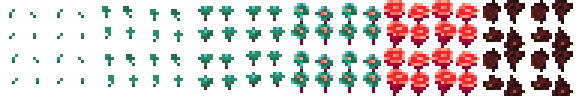
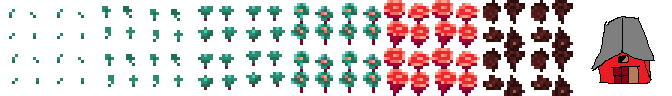
Show the harvester

diff --git a/src/scenes/TileScreen.ts b/src/scenes/TileScreen.ts
@@ -24,7 +24,6 @@ export class TileScreen extends Phaser.Scene {
         if (!first_row) {
             throw new Error("Must have failed to parse map!");
         }
-
         this.map = this.make.tilemap({
             key: 'map',
             width: first_row.length,
@@ -32,9 +31,6 @@ export class TileScreen extends Phaser.Scene {
             tileWidth: 32,
             tileHeight: 32,
         });
-
-        const harvester = this.add.image(WINDOW_CENTER.x, WINDOW_CENTER.y, 'harvester');
-        this.harvester = harvester;
 
         const ground_tileset = this.map.addTilesetImage('ground', undefined, 96, 96);
         const plant_tileset = this.map.addTilesetImage('plants', undefined, 96, 96);
@@ -45,11 +41,14 @@ export class TileScreen extends Phaser.Scene {
         const plants = this.map.createBlankLayer('plants', plant_tileset);
         plants.fill(0, 0, 0, this.map.width, this.map.height);
 
+        this.updateTiles();
+
+        const harvester = this.add.image(WINDOW_CENTER.x, WINDOW_CENTER.y, 'harvester', 0);
+        this.harvester = harvester;
         this.cameras.main.setBounds(0, 0, TILE_SIZE * this.map.width, TILE_SIZE * this.map.height);
-        // Set Deadzone for harvester?
+        // TODO: Set Deadzone for harvester?
         this.cameras.main.startFollow(this.harvester);
 
-        this.updateTiles();
         this.input.keyboard.on('keydown-RIGHT', () => {
             harvester.x += 3;
         });

diff --git a/src/map/builder.ts b/src/map/builder.ts
@@ -7,7 +7,7 @@ type TileDefinitions = Record<string, () => Tile>;
 const map_tiles: TileDefinitions = {
     g: (): Tile => {
         const tile = new_plant_tile(meat.clone());
-        tile.object.timer = Math.random() * 2000 + 500;
+        tile.object.updateTimer(Math.random() * 20000 + 4000);
         return tile;
     },
     b: (): Tile => {
@@ -23,8 +23,8 @@ export function build(): Tile[][] {
         ggggggggggggggggggggggggggggggggggggggggg
         ggggggggggggggggggggggggggggggggggggggggg
         ggggggggggggggggggggggggggggggggggggggggg
-        ggggggggggggggggggggggggggggggggggggggggg
-        ggggggggggggggggggggggggggggggggggggggggg
+        bbggggggggggggggggggggggggggggggggggggggg
+        bbggggggggggggggggggggggggggggggggggggggg
         ggggggggggggggggggggggggggggggggggggggggg
         ggggggggggggggggggggggggggggggggggggggggg
         ggggggggggggggggggggggggggggggggggggggggg

diff --git a/src/map/tiles.ts b/src/map/tiles.ts
@@ -9,7 +9,7 @@ export interface BarnTile {
 
 export class Barn {
     current(): Frame {
-        return 20;
+        return 6;
     }
 }
 
@@ -43,7 +43,7 @@ export class Plant {
     private indexes: Frame[];
     private currentIndex: number;
     private currentFrame: Frame;
-    timer: number | null;
+    private timer: number | null;
     private timerIncrement: number;
 
     constructor({ indexes, timer }: PlantParams) {
@@ -58,6 +58,11 @@ export class Plant {
         this.timer = timer;
         this.timerIncrement = timer;
         this.currentFrame = currentFrame;
+    }
+
+    updateTimer(increment: number): void {
+        this.timer = increment;
+        this.timerIncrement = increment;
     }
 
     current(): number {

diff --git a/src/config.ts b/src/config.ts
@@ -5,6 +5,7 @@ export default {
     type: Phaser.AUTO,
     width: WINDOW_WIDTH,
     height: WINDOW_HEIGHT,
+    pixelArt: true,
     physics: {
         default: 'arcade',
     },
